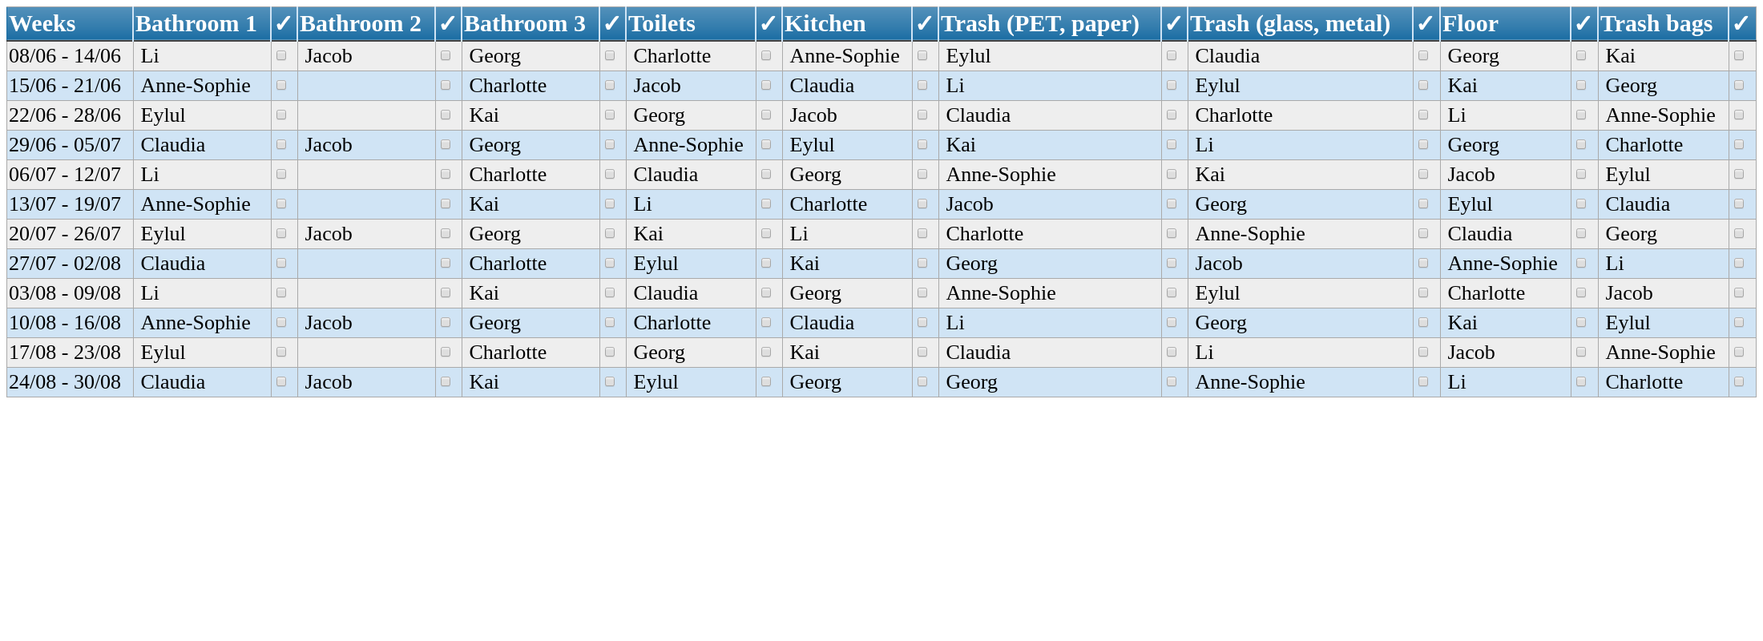
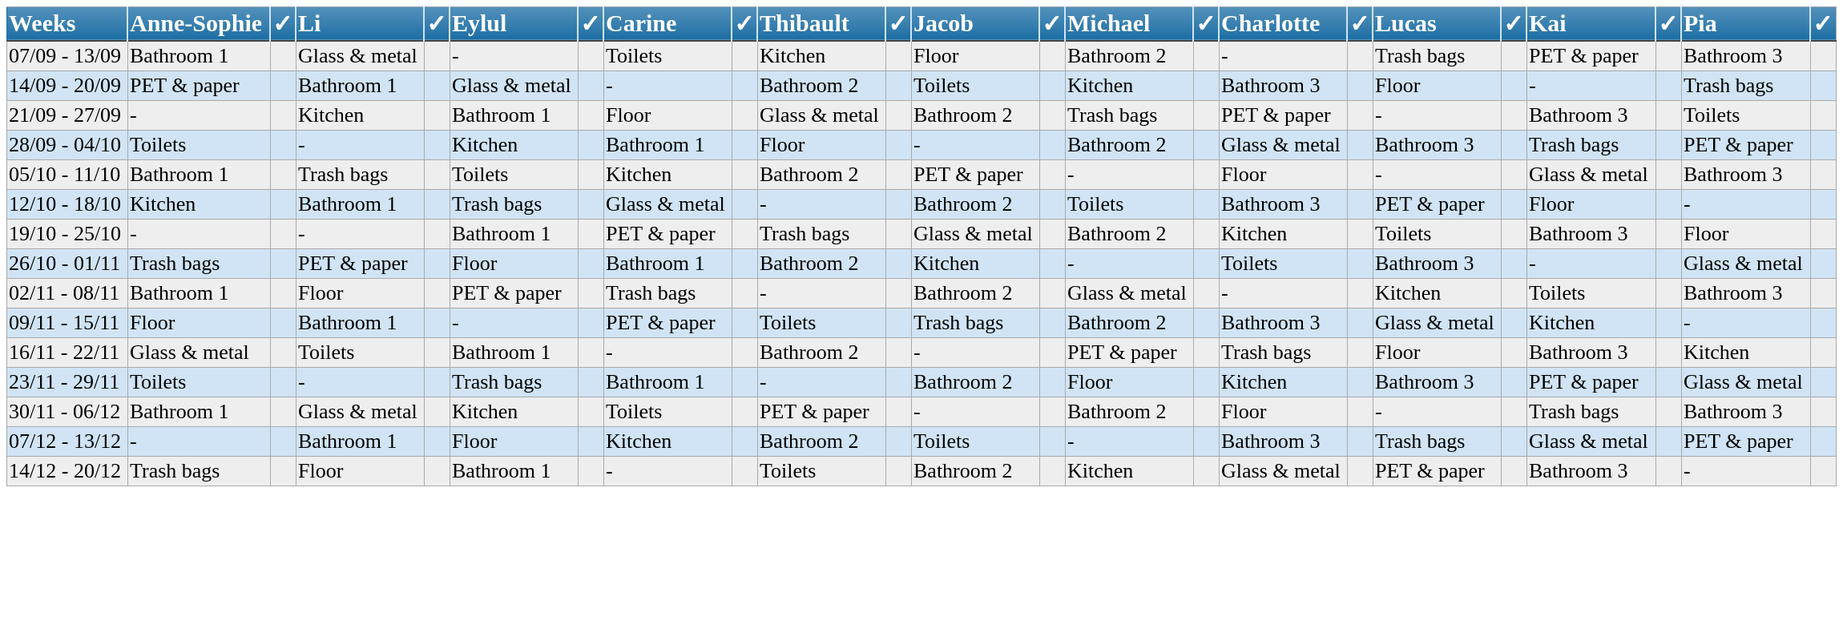
Reorganized the printing

Changed region(s): [[0.0, 0.0, 1.0, 0.75], [0.1545, 0.2188, 0.2164, 0.2812]]

diff --git a/cleaning_duty.html b/cleaning_duty.html
@@ -4,21 +4,24 @@
 <body>
 <table>
 <thead>
-<tr><th>Weeks        </th><th>Bathroom 1       </th><th>✓                                                   </th><th>Bathroom 2  </th><th>✓                                                   </th><th>Bathroom 3     </th><th>✓                                                   </th><th>Toilets          </th><th>✓                                                   </th><th>Kitchen          </th><th>✓                                                   </th><th>Trash (PET, paper)  </th><th>✓                                                   </th><th>Trash (glass, metal)  </th><th>✓                                                   </th><th>Floor            </th><th>✓                                                   </th><th>Trash bags       </th><th>✓                                                   </th></tr>
+<tr><th>Weeks        </th><th>Anne-Sophie  </th><th>✓  </th><th>Li           </th><th>✓  </th><th>Eylul        </th><th>✓  </th><th>Carine       </th><th>✓  </th><th>Thibault     </th><th>✓  </th><th>Jacob        </th><th>✓  </th><th>Michael      </th><th>✓  </th><th>Charlotte    </th><th>✓  </th><th>Lucas        </th><th>✓  </th><th>Kai          </th><th>✓  </th><th>Pia          </th><th>✓  </th></tr>
 </thead>
 <tbody>
-<tr><td>08/06 - 14/06</td><td>&nbsp;Li         </td><td><input type="checkbox" style="pointer-events: none"></td><td>&nbsp;Jacob </td><td><input type="checkbox" style="pointer-events: none"></td><td>&nbsp;Georg    </td><td><input type="checkbox" style="pointer-events: none"></td><td>&nbsp;Charlotte  </td><td><input type="checkbox" style="pointer-events: none"></td><td>&nbsp;Anne-Sophie</td><td><input type="checkbox" style="pointer-events: none"></td><td>&nbsp;Eylul         </td><td><input type="checkbox" style="pointer-events: none"></td><td>&nbsp;Claudia         </td><td><input type="checkbox" style="pointer-events: none"></td><td>&nbsp;Georg      </td><td><input type="checkbox" style="pointer-events: none"></td><td>&nbsp;Kai        </td><td><input type="checkbox" style="pointer-events: none"></td></tr>
-<tr><td>15/06 - 21/06</td><td>&nbsp;Anne-Sophie</td><td><input type="checkbox" style="pointer-events: none"></td><td>&nbsp;      </td><td><input type="checkbox" style="pointer-events: none"></td><td>&nbsp;Charlotte</td><td><input type="checkbox" style="pointer-events: none"></td><td>&nbsp;Jacob      </td><td><input type="checkbox" style="pointer-events: none"></td><td>&nbsp;Claudia    </td><td><input type="checkbox" style="pointer-events: none"></td><td>&nbsp;Li            </td><td><input type="checkbox" style="pointer-events: none"></td><td>&nbsp;Eylul           </td><td><input type="checkbox" style="pointer-events: none"></td><td>&nbsp;Kai        </td><td><input type="checkbox" style="pointer-events: none"></td><td>&nbsp;Georg      </td><td><input type="checkbox" style="pointer-events: none"></td></tr>
-<tr><td>22/06 - 28/06</td><td>&nbsp;Eylul      </td><td><input type="checkbox" style="pointer-events: none"></td><td>&nbsp;      </td><td><input type="checkbox" style="pointer-events: none"></td><td>&nbsp;Kai      </td><td><input type="checkbox" style="pointer-events: none"></td><td>&nbsp;Georg      </td><td><input type="checkbox" style="pointer-events: none"></td><td>&nbsp;Jacob      </td><td><input type="checkbox" style="pointer-events: none"></td><td>&nbsp;Claudia       </td><td><input type="checkbox" style="pointer-events: none"></td><td>&nbsp;Charlotte       </td><td><input type="checkbox" style="pointer-events: none"></td><td>&nbsp;Li         </td><td><input type="checkbox" style="pointer-events: none"></td><td>&nbsp;Anne-Sophie</td><td><input type="checkbox" style="pointer-events: none"></td></tr>
-<tr><td>29/06 - 05/07</td><td>&nbsp;Claudia    </td><td><input type="checkbox" style="pointer-events: none"></td><td>&nbsp;Jacob </td><td><input type="checkbox" style="pointer-events: none"></td><td>&nbsp;Georg    </td><td><input type="checkbox" style="pointer-events: none"></td><td>&nbsp;Anne-Sophie</td><td><input type="checkbox" style="pointer-events: none"></td><td>&nbsp;Eylul      </td><td><input type="checkbox" style="pointer-events: none"></td><td>&nbsp;Kai           </td><td><input type="checkbox" style="pointer-events: none"></td><td>&nbsp;Li              </td><td><input type="checkbox" style="pointer-events: none"></td><td>&nbsp;Georg      </td><td><input type="checkbox" style="pointer-events: none"></td><td>&nbsp;Charlotte  </td><td><input type="checkbox" style="pointer-events: none"></td></tr>
-<tr><td>06/07 - 12/07</td><td>&nbsp;Li         </td><td><input type="checkbox" style="pointer-events: none"></td><td>&nbsp;      </td><td><input type="checkbox" style="pointer-events: none"></td><td>&nbsp;Charlotte</td><td><input type="checkbox" style="pointer-events: none"></td><td>&nbsp;Claudia    </td><td><input type="checkbox" style="pointer-events: none"></td><td>&nbsp;Georg      </td><td><input type="checkbox" style="pointer-events: none"></td><td>&nbsp;Anne-Sophie   </td><td><input type="checkbox" style="pointer-events: none"></td><td>&nbsp;Kai             </td><td><input type="checkbox" style="pointer-events: none"></td><td>&nbsp;Jacob      </td><td><input type="checkbox" style="pointer-events: none"></td><td>&nbsp;Eylul      </td><td><input type="checkbox" style="pointer-events: none"></td></tr>
-<tr><td>13/07 - 19/07</td><td>&nbsp;Anne-Sophie</td><td><input type="checkbox" style="pointer-events: none"></td><td>&nbsp;      </td><td><input type="checkbox" style="pointer-events: none"></td><td>&nbsp;Kai      </td><td><input type="checkbox" style="pointer-events: none"></td><td>&nbsp;Li         </td><td><input type="checkbox" style="pointer-events: none"></td><td>&nbsp;Charlotte  </td><td><input type="checkbox" style="pointer-events: none"></td><td>&nbsp;Jacob         </td><td><input type="checkbox" style="pointer-events: none"></td><td>&nbsp;Georg           </td><td><input type="checkbox" style="pointer-events: none"></td><td>&nbsp;Eylul      </td><td><input type="checkbox" style="pointer-events: none"></td><td>&nbsp;Claudia    </td><td><input type="checkbox" style="pointer-events: none"></td></tr>
-<tr><td>20/07 - 26/07</td><td>&nbsp;Eylul      </td><td><input type="checkbox" style="pointer-events: none"></td><td>&nbsp;Jacob </td><td><input type="checkbox" style="pointer-events: none"></td><td>&nbsp;Georg    </td><td><input type="checkbox" style="pointer-events: none"></td><td>&nbsp;Kai        </td><td><input type="checkbox" style="pointer-events: none"></td><td>&nbsp;Li         </td><td><input type="checkbox" style="pointer-events: none"></td><td>&nbsp;Charlotte     </td><td><input type="checkbox" style="pointer-events: none"></td><td>&nbsp;Anne-Sophie     </td><td><input type="checkbox" style="pointer-events: none"></td><td>&nbsp;Claudia    </td><td><input type="checkbox" style="pointer-events: none"></td><td>&nbsp;Georg      </td><td><input type="checkbox" style="pointer-events: none"></td></tr>
-<tr><td>27/07 - 02/08</td><td>&nbsp;Claudia    </td><td><input type="checkbox" style="pointer-events: none"></td><td>&nbsp;      </td><td><input type="checkbox" style="pointer-events: none"></td><td>&nbsp;Charlotte</td><td><input type="checkbox" style="pointer-events: none"></td><td>&nbsp;Eylul      </td><td><input type="checkbox" style="pointer-events: none"></td><td>&nbsp;Kai        </td><td><input type="checkbox" style="pointer-events: none"></td><td>&nbsp;Georg         </td><td><input type="checkbox" style="pointer-events: none"></td><td>&nbsp;Jacob           </td><td><input type="checkbox" style="pointer-events: none"></td><td>&nbsp;Anne-Sophie</td><td><input type="checkbox" style="pointer-events: none"></td><td>&nbsp;Li         </td><td><input type="checkbox" style="pointer-events: none"></td></tr>
-<tr><td>03/08 - 09/08</td><td>&nbsp;Li         </td><td><input type="checkbox" style="pointer-events: none"></td><td>&nbsp;      </td><td><input type="checkbox" style="pointer-events: none"></td><td>&nbsp;Kai      </td><td><input type="checkbox" style="pointer-events: none"></td><td>&nbsp;Claudia    </td><td><input type="checkbox" style="pointer-events: none"></td><td>&nbsp;Georg      </td><td><input type="checkbox" style="pointer-events: none"></td><td>&nbsp;Anne-Sophie   </td><td><input type="checkbox" style="pointer-events: none"></td><td>&nbsp;Eylul           </td><td><input type="checkbox" style="pointer-events: none"></td><td>&nbsp;Charlotte  </td><td><input type="checkbox" style="pointer-events: none"></td><td>&nbsp;Jacob      </td><td><input type="checkbox" style="pointer-events: none"></td></tr>
-<tr><td>10/08 - 16/08</td><td>&nbsp;Anne-Sophie</td><td><input type="checkbox" style="pointer-events: none"></td><td>&nbsp;Jacob </td><td><input type="checkbox" style="pointer-events: none"></td><td>&nbsp;Georg    </td><td><input type="checkbox" style="pointer-events: none"></td><td>&nbsp;Charlotte  </td><td><input type="checkbox" style="pointer-events: none"></td><td>&nbsp;Claudia    </td><td><input type="checkbox" style="pointer-events: none"></td><td>&nbsp;Li            </td><td><input type="checkbox" style="pointer-events: none"></td><td>&nbsp;Georg           </td><td><input type="checkbox" style="pointer-events: none"></td><td>&nbsp;Kai        </td><td><input type="checkbox" style="pointer-events: none"></td><td>&nbsp;Eylul      </td><td><input type="checkbox" style="pointer-events: none"></td></tr>
-<tr><td>17/08 - 23/08</td><td>&nbsp;Eylul      </td><td><input type="checkbox" style="pointer-events: none"></td><td>&nbsp;      </td><td><input type="checkbox" style="pointer-events: none"></td><td>&nbsp;Charlotte</td><td><input type="checkbox" style="pointer-events: none"></td><td>&nbsp;Georg      </td><td><input type="checkbox" style="pointer-events: none"></td><td>&nbsp;Kai        </td><td><input type="checkbox" style="pointer-events: none"></td><td>&nbsp;Claudia       </td><td><input type="checkbox" style="pointer-events: none"></td><td>&nbsp;Li              </td><td><input type="checkbox" style="pointer-events: none"></td><td>&nbsp;Jacob      </td><td><input type="checkbox" style="pointer-events: none"></td><td>&nbsp;Anne-Sophie</td><td><input type="checkbox" style="pointer-events: none"></td></tr>
-<tr><td>24/08 - 30/08</td><td>&nbsp;Claudia    </td><td><input type="checkbox" style="pointer-events: none"></td><td>&nbsp;Jacob </td><td><input type="checkbox" style="pointer-events: none"></td><td>&nbsp;Kai      </td><td><input type="checkbox" style="pointer-events: none"></td><td>&nbsp;Eylul      </td><td><input type="checkbox" style="pointer-events: none"></td><td>&nbsp;Georg      </td><td><input type="checkbox" style="pointer-events: none"></td><td>&nbsp;Georg         </td><td><input type="checkbox" style="pointer-events: none"></td><td>&nbsp;Anne-Sophie     </td><td><input type="checkbox" style="pointer-events: none"></td><td>&nbsp;Li         </td><td><input type="checkbox" style="pointer-events: none"></td><td>&nbsp;Charlotte  </td><td><input type="checkbox" style="pointer-events: none"></td></tr>
+<tr><td>07/09 - 13/09</td><td>Bathroom 1   </td><td>   </td><td>Glass &amp; metal</td><td>   </td><td>-            </td><td>   </td><td>Toilets      </td><td>   </td><td>Kitchen      </td><td>   </td><td>Floor        </td><td>   </td><td>Bathroom 2   </td><td>   </td><td>-            </td><td>   </td><td>Trash bags   </td><td>   </td><td>PET &amp; paper  </td><td>   </td><td>Bathroom 3   </td><td>   </td></tr>
+<tr><td>14/09 - 20/09</td><td>PET &amp; paper  </td><td>   </td><td>Bathroom 1   </td><td>   </td><td>Glass &amp; metal</td><td>   </td><td>-            </td><td>   </td><td>Bathroom 2   </td><td>   </td><td>Toilets      </td><td>   </td><td>Kitchen      </td><td>   </td><td>Bathroom 3   </td><td>   </td><td>Floor        </td><td>   </td><td>-            </td><td>   </td><td>Trash bags   </td><td>   </td></tr>
+<tr><td>21/09 - 27/09</td><td>-            </td><td>   </td><td>Kitchen      </td><td>   </td><td>Bathroom 1   </td><td>   </td><td>Floor        </td><td>   </td><td>Glass &amp; metal</td><td>   </td><td>Bathroom 2   </td><td>   </td><td>Trash bags   </td><td>   </td><td>PET &amp; paper  </td><td>   </td><td>-            </td><td>   </td><td>Bathroom 3   </td><td>   </td><td>Toilets      </td><td>   </td></tr>
+<tr><td>28/09 - 04/10</td><td>Toilets      </td><td>   </td><td>-            </td><td>   </td><td>Kitchen      </td><td>   </td><td>Bathroom 1   </td><td>   </td><td>Floor        </td><td>   </td><td>-            </td><td>   </td><td>Bathroom 2   </td><td>   </td><td>Glass &amp; metal</td><td>   </td><td>Bathroom 3   </td><td>   </td><td>Trash bags   </td><td>   </td><td>PET &amp; paper  </td><td>   </td></tr>
+<tr><td>05/10 - 11/10</td><td>Bathroom 1   </td><td>   </td><td>Trash bags   </td><td>   </td><td>Toilets      </td><td>   </td><td>Kitchen      </td><td>   </td><td>Bathroom 2   </td><td>   </td><td>PET &amp; paper  </td><td>   </td><td>-            </td><td>   </td><td>Floor        </td><td>   </td><td>-            </td><td>   </td><td>Glass &amp; metal</td><td>   </td><td>Bathroom 3   </td><td>   </td></tr>
+<tr><td>12/10 - 18/10</td><td>Kitchen      </td><td>   </td><td>Bathroom 1   </td><td>   </td><td>Trash bags   </td><td>   </td><td>Glass &amp; metal</td><td>   </td><td>-            </td><td>   </td><td>Bathroom 2   </td><td>   </td><td>Toilets      </td><td>   </td><td>Bathroom 3   </td><td>   </td><td>PET &amp; paper  </td><td>   </td><td>Floor        </td><td>   </td><td>-            </td><td>   </td></tr>
+<tr><td>19/10 - 25/10</td><td>-            </td><td>   </td><td>-            </td><td>   </td><td>Bathroom 1   </td><td>   </td><td>PET &amp; paper  </td><td>   </td><td>Trash bags   </td><td>   </td><td>Glass &amp; metal</td><td>   </td><td>Bathroom 2   </td><td>   </td><td>Kitchen      </td><td>   </td><td>Toilets      </td><td>   </td><td>Bathroom 3   </td><td>   </td><td>Floor        </td><td>   </td></tr>
+<tr><td>26/10 - 01/11</td><td>Trash bags   </td><td>   </td><td>PET &amp; paper  </td><td>   </td><td>Floor        </td><td>   </td><td>Bathroom 1   </td><td>   </td><td>Bathroom 2   </td><td>   </td><td>Kitchen      </td><td>   </td><td>-            </td><td>   </td><td>Toilets      </td><td>   </td><td>Bathroom 3   </td><td>   </td><td>-            </td><td>   </td><td>Glass &amp; metal</td><td>   </td></tr>
+<tr><td>02/11 - 08/11</td><td>Bathroom 1   </td><td>   </td><td>Floor        </td><td>   </td><td>PET &amp; paper  </td><td>   </td><td>Trash bags   </td><td>   </td><td>-            </td><td>   </td><td>Bathroom 2   </td><td>   </td><td>Glass &amp; metal</td><td>   </td><td>-            </td><td>   </td><td>Kitchen      </td><td>   </td><td>Toilets      </td><td>   </td><td>Bathroom 3   </td><td>   </td></tr>
+<tr><td>09/11 - 15/11</td><td>Floor        </td><td>   </td><td>Bathroom 1   </td><td>   </td><td>-            </td><td>   </td><td>PET &amp; paper  </td><td>   </td><td>Toilets      </td><td>   </td><td>Trash bags   </td><td>   </td><td>Bathroom 2   </td><td>   </td><td>Bathroom 3   </td><td>   </td><td>Glass &amp; metal</td><td>   </td><td>Kitchen      </td><td>   </td><td>-            </td><td>   </td></tr>
+<tr><td>16/11 - 22/11</td><td>Glass &amp; metal</td><td>   </td><td>Toilets      </td><td>   </td><td>Bathroom 1   </td><td>   </td><td>-            </td><td>   </td><td>Bathroom 2   </td><td>   </td><td>-            </td><td>   </td><td>PET &amp; paper  </td><td>   </td><td>Trash bags   </td><td>   </td><td>Floor        </td><td>   </td><td>Bathroom 3   </td><td>   </td><td>Kitchen      </td><td>   </td></tr>
+<tr><td>23/11 - 29/11</td><td>Toilets      </td><td>   </td><td>-            </td><td>   </td><td>Trash bags   </td><td>   </td><td>Bathroom 1   </td><td>   </td><td>-            </td><td>   </td><td>Bathroom 2   </td><td>   </td><td>Floor        </td><td>   </td><td>Kitchen      </td><td>   </td><td>Bathroom 3   </td><td>   </td><td>PET &amp; paper  </td><td>   </td><td>Glass &amp; metal</td><td>   </td></tr>
+<tr><td>30/11 - 06/12</td><td>Bathroom 1   </td><td>   </td><td>Glass &amp; metal</td><td>   </td><td>Kitchen      </td><td>   </td><td>Toilets      </td><td>   </td><td>PET &amp; paper  </td><td>   </td><td>-            </td><td>   </td><td>Bathroom 2   </td><td>   </td><td>Floor        </td><td>   </td><td>-            </td><td>   </td><td>Trash bags   </td><td>   </td><td>Bathroom 3   </td><td>   </td></tr>
+<tr><td>07/12 - 13/12</td><td>-            </td><td>   </td><td>Bathroom 1   </td><td>   </td><td>Floor        </td><td>   </td><td>Kitchen      </td><td>   </td><td>Bathroom 2   </td><td>   </td><td>Toilets      </td><td>   </td><td>-            </td><td>   </td><td>Bathroom 3   </td><td>   </td><td>Trash bags   </td><td>   </td><td>Glass &amp; metal</td><td>   </td><td>PET &amp; paper  </td><td>   </td></tr>
+<tr><td>14/12 - 20/12</td><td>Trash bags   </td><td>   </td><td>Floor        </td><td>   </td><td>Bathroom 1   </td><td>   </td><td>-            </td><td>   </td><td>Toilets      </td><td>   </td><td>Bathroom 2   </td><td>   </td><td>Kitchen      </td><td>   </td><td>Glass &amp; metal</td><td>   </td><td>PET &amp; paper  </td><td>   </td><td>Bathroom 3   </td><td>   </td><td>-            </td><td>   </td></tr>
 </tbody>
 </table>
 <div id="leaderboard"></div>

diff --git a/html/table.html b/html/table.html
@@ -1,19 +1,22 @@
 <table>
 <thead>
-<tr><th>Weeks        </th><th>Bathroom 1       </th><th>✓                                                   </th><th>Bathroom 2  </th><th>✓                                                   </th><th>Bathroom 3     </th><th>✓                                                   </th><th>Toilets          </th><th>✓                                                   </th><th>Kitchen          </th><th>✓                                                   </th><th>Trash (PET, paper)  </th><th>✓                                                   </th><th>Trash (glass, metal)  </th><th>✓                                                   </th><th>Floor            </th><th>✓                                                   </th><th>Trash bags       </th><th>✓                                                   </th></tr>
+<tr><th>Weeks        </th><th>Anne-Sophie  </th><th>✓  </th><th>Li           </th><th>✓  </th><th>Eylul        </th><th>✓  </th><th>Carine       </th><th>✓  </th><th>Thibault     </th><th>✓  </th><th>Jacob        </th><th>✓  </th><th>Michael      </th><th>✓  </th><th>Charlotte    </th><th>✓  </th><th>Lucas        </th><th>✓  </th><th>Kai          </th><th>✓  </th><th>Pia          </th><th>✓  </th></tr>
 </thead>
 <tbody>
-<tr><td>08/06 - 14/06</td><td>&nbsp;Li         </td><td><input type="checkbox" style="pointer-events: none"></td><td>&nbsp;Jacob </td><td><input type="checkbox" style="pointer-events: none"></td><td>&nbsp;Georg    </td><td><input type="checkbox" style="pointer-events: none"></td><td>&nbsp;Charlotte  </td><td><input type="checkbox" style="pointer-events: none"></td><td>&nbsp;Anne-Sophie</td><td><input type="checkbox" style="pointer-events: none"></td><td>&nbsp;Eylul         </td><td><input type="checkbox" style="pointer-events: none"></td><td>&nbsp;Claudia         </td><td><input type="checkbox" style="pointer-events: none"></td><td>&nbsp;Georg      </td><td><input type="checkbox" style="pointer-events: none"></td><td>&nbsp;Kai        </td><td><input type="checkbox" style="pointer-events: none"></td></tr>
-<tr><td>15/06 - 21/06</td><td>&nbsp;Anne-Sophie</td><td><input type="checkbox" style="pointer-events: none"></td><td>&nbsp;      </td><td><input type="checkbox" style="pointer-events: none"></td><td>&nbsp;Charlotte</td><td><input type="checkbox" style="pointer-events: none"></td><td>&nbsp;Jacob      </td><td><input type="checkbox" style="pointer-events: none"></td><td>&nbsp;Claudia    </td><td><input type="checkbox" style="pointer-events: none"></td><td>&nbsp;Li            </td><td><input type="checkbox" style="pointer-events: none"></td><td>&nbsp;Eylul           </td><td><input type="checkbox" style="pointer-events: none"></td><td>&nbsp;Kai        </td><td><input type="checkbox" style="pointer-events: none"></td><td>&nbsp;Georg      </td><td><input type="checkbox" style="pointer-events: none"></td></tr>
-<tr><td>22/06 - 28/06</td><td>&nbsp;Eylul      </td><td><input type="checkbox" style="pointer-events: none"></td><td>&nbsp;      </td><td><input type="checkbox" style="pointer-events: none"></td><td>&nbsp;Kai      </td><td><input type="checkbox" style="pointer-events: none"></td><td>&nbsp;Georg      </td><td><input type="checkbox" style="pointer-events: none"></td><td>&nbsp;Jacob      </td><td><input type="checkbox" style="pointer-events: none"></td><td>&nbsp;Claudia       </td><td><input type="checkbox" style="pointer-events: none"></td><td>&nbsp;Charlotte       </td><td><input type="checkbox" style="pointer-events: none"></td><td>&nbsp;Li         </td><td><input type="checkbox" style="pointer-events: none"></td><td>&nbsp;Anne-Sophie</td><td><input type="checkbox" style="pointer-events: none"></td></tr>
-<tr><td>29/06 - 05/07</td><td>&nbsp;Claudia    </td><td><input type="checkbox" style="pointer-events: none"></td><td>&nbsp;Jacob </td><td><input type="checkbox" style="pointer-events: none"></td><td>&nbsp;Georg    </td><td><input type="checkbox" style="pointer-events: none"></td><td>&nbsp;Anne-Sophie</td><td><input type="checkbox" style="pointer-events: none"></td><td>&nbsp;Eylul      </td><td><input type="checkbox" style="pointer-events: none"></td><td>&nbsp;Kai           </td><td><input type="checkbox" style="pointer-events: none"></td><td>&nbsp;Li              </td><td><input type="checkbox" style="pointer-events: none"></td><td>&nbsp;Georg      </td><td><input type="checkbox" style="pointer-events: none"></td><td>&nbsp;Charlotte  </td><td><input type="checkbox" style="pointer-events: none"></td></tr>
-<tr><td>06/07 - 12/07</td><td>&nbsp;Li         </td><td><input type="checkbox" style="pointer-events: none"></td><td>&nbsp;      </td><td><input type="checkbox" style="pointer-events: none"></td><td>&nbsp;Charlotte</td><td><input type="checkbox" style="pointer-events: none"></td><td>&nbsp;Claudia    </td><td><input type="checkbox" style="pointer-events: none"></td><td>&nbsp;Georg      </td><td><input type="checkbox" style="pointer-events: none"></td><td>&nbsp;Anne-Sophie   </td><td><input type="checkbox" style="pointer-events: none"></td><td>&nbsp;Kai             </td><td><input type="checkbox" style="pointer-events: none"></td><td>&nbsp;Jacob      </td><td><input type="checkbox" style="pointer-events: none"></td><td>&nbsp;Eylul      </td><td><input type="checkbox" style="pointer-events: none"></td></tr>
-<tr><td>13/07 - 19/07</td><td>&nbsp;Anne-Sophie</td><td><input type="checkbox" style="pointer-events: none"></td><td>&nbsp;      </td><td><input type="checkbox" style="pointer-events: none"></td><td>&nbsp;Kai      </td><td><input type="checkbox" style="pointer-events: none"></td><td>&nbsp;Li         </td><td><input type="checkbox" style="pointer-events: none"></td><td>&nbsp;Charlotte  </td><td><input type="checkbox" style="pointer-events: none"></td><td>&nbsp;Jacob         </td><td><input type="checkbox" style="pointer-events: none"></td><td>&nbsp;Georg           </td><td><input type="checkbox" style="pointer-events: none"></td><td>&nbsp;Eylul      </td><td><input type="checkbox" style="pointer-events: none"></td><td>&nbsp;Claudia    </td><td><input type="checkbox" style="pointer-events: none"></td></tr>
-<tr><td>20/07 - 26/07</td><td>&nbsp;Eylul      </td><td><input type="checkbox" style="pointer-events: none"></td><td>&nbsp;Jacob </td><td><input type="checkbox" style="pointer-events: none"></td><td>&nbsp;Georg    </td><td><input type="checkbox" style="pointer-events: none"></td><td>&nbsp;Kai        </td><td><input type="checkbox" style="pointer-events: none"></td><td>&nbsp;Li         </td><td><input type="checkbox" style="pointer-events: none"></td><td>&nbsp;Charlotte     </td><td><input type="checkbox" style="pointer-events: none"></td><td>&nbsp;Anne-Sophie     </td><td><input type="checkbox" style="pointer-events: none"></td><td>&nbsp;Claudia    </td><td><input type="checkbox" style="pointer-events: none"></td><td>&nbsp;Georg      </td><td><input type="checkbox" style="pointer-events: none"></td></tr>
-<tr><td>27/07 - 02/08</td><td>&nbsp;Claudia    </td><td><input type="checkbox" style="pointer-events: none"></td><td>&nbsp;      </td><td><input type="checkbox" style="pointer-events: none"></td><td>&nbsp;Charlotte</td><td><input type="checkbox" style="pointer-events: none"></td><td>&nbsp;Eylul      </td><td><input type="checkbox" style="pointer-events: none"></td><td>&nbsp;Kai        </td><td><input type="checkbox" style="pointer-events: none"></td><td>&nbsp;Georg         </td><td><input type="checkbox" style="pointer-events: none"></td><td>&nbsp;Jacob           </td><td><input type="checkbox" style="pointer-events: none"></td><td>&nbsp;Anne-Sophie</td><td><input type="checkbox" style="pointer-events: none"></td><td>&nbsp;Li         </td><td><input type="checkbox" style="pointer-events: none"></td></tr>
-<tr><td>03/08 - 09/08</td><td>&nbsp;Li         </td><td><input type="checkbox" style="pointer-events: none"></td><td>&nbsp;      </td><td><input type="checkbox" style="pointer-events: none"></td><td>&nbsp;Kai      </td><td><input type="checkbox" style="pointer-events: none"></td><td>&nbsp;Claudia    </td><td><input type="checkbox" style="pointer-events: none"></td><td>&nbsp;Georg      </td><td><input type="checkbox" style="pointer-events: none"></td><td>&nbsp;Anne-Sophie   </td><td><input type="checkbox" style="pointer-events: none"></td><td>&nbsp;Eylul           </td><td><input type="checkbox" style="pointer-events: none"></td><td>&nbsp;Charlotte  </td><td><input type="checkbox" style="pointer-events: none"></td><td>&nbsp;Jacob      </td><td><input type="checkbox" style="pointer-events: none"></td></tr>
-<tr><td>10/08 - 16/08</td><td>&nbsp;Anne-Sophie</td><td><input type="checkbox" style="pointer-events: none"></td><td>&nbsp;Jacob </td><td><input type="checkbox" style="pointer-events: none"></td><td>&nbsp;Georg    </td><td><input type="checkbox" style="pointer-events: none"></td><td>&nbsp;Charlotte  </td><td><input type="checkbox" style="pointer-events: none"></td><td>&nbsp;Claudia    </td><td><input type="checkbox" style="pointer-events: none"></td><td>&nbsp;Li            </td><td><input type="checkbox" style="pointer-events: none"></td><td>&nbsp;Georg           </td><td><input type="checkbox" style="pointer-events: none"></td><td>&nbsp;Kai        </td><td><input type="checkbox" style="pointer-events: none"></td><td>&nbsp;Eylul      </td><td><input type="checkbox" style="pointer-events: none"></td></tr>
-<tr><td>17/08 - 23/08</td><td>&nbsp;Eylul      </td><td><input type="checkbox" style="pointer-events: none"></td><td>&nbsp;      </td><td><input type="checkbox" style="pointer-events: none"></td><td>&nbsp;Charlotte</td><td><input type="checkbox" style="pointer-events: none"></td><td>&nbsp;Georg      </td><td><input type="checkbox" style="pointer-events: none"></td><td>&nbsp;Kai        </td><td><input type="checkbox" style="pointer-events: none"></td><td>&nbsp;Claudia       </td><td><input type="checkbox" style="pointer-events: none"></td><td>&nbsp;Li              </td><td><input type="checkbox" style="pointer-events: none"></td><td>&nbsp;Jacob      </td><td><input type="checkbox" style="pointer-events: none"></td><td>&nbsp;Anne-Sophie</td><td><input type="checkbox" style="pointer-events: none"></td></tr>
-<tr><td>24/08 - 30/08</td><td>&nbsp;Claudia    </td><td><input type="checkbox" style="pointer-events: none"></td><td>&nbsp;Jacob </td><td><input type="checkbox" style="pointer-events: none"></td><td>&nbsp;Kai      </td><td><input type="checkbox" style="pointer-events: none"></td><td>&nbsp;Eylul      </td><td><input type="checkbox" style="pointer-events: none"></td><td>&nbsp;Georg      </td><td><input type="checkbox" style="pointer-events: none"></td><td>&nbsp;Georg         </td><td><input type="checkbox" style="pointer-events: none"></td><td>&nbsp;Anne-Sophie     </td><td><input type="checkbox" style="pointer-events: none"></td><td>&nbsp;Li         </td><td><input type="checkbox" style="pointer-events: none"></td><td>&nbsp;Charlotte  </td><td><input type="checkbox" style="pointer-events: none"></td></tr>
+<tr><td>07/09 - 13/09</td><td>Bathroom 1   </td><td>   </td><td>Glass &amp; metal</td><td>   </td><td>-            </td><td>   </td><td>Toilets      </td><td>   </td><td>Kitchen      </td><td>   </td><td>Floor        </td><td>   </td><td>Bathroom 2   </td><td>   </td><td>-            </td><td>   </td><td>Trash bags   </td><td>   </td><td>PET &amp; paper  </td><td>   </td><td>Bathroom 3   </td><td>   </td></tr>
+<tr><td>14/09 - 20/09</td><td>PET &amp; paper  </td><td>   </td><td>Bathroom 1   </td><td>   </td><td>Glass &amp; metal</td><td>   </td><td>-            </td><td>   </td><td>Bathroom 2   </td><td>   </td><td>Toilets      </td><td>   </td><td>Kitchen      </td><td>   </td><td>Bathroom 3   </td><td>   </td><td>Floor        </td><td>   </td><td>-            </td><td>   </td><td>Trash bags   </td><td>   </td></tr>
+<tr><td>21/09 - 27/09</td><td>-            </td><td>   </td><td>Kitchen      </td><td>   </td><td>Bathroom 1   </td><td>   </td><td>Floor        </td><td>   </td><td>Glass &amp; metal</td><td>   </td><td>Bathroom 2   </td><td>   </td><td>Trash bags   </td><td>   </td><td>PET &amp; paper  </td><td>   </td><td>-            </td><td>   </td><td>Bathroom 3   </td><td>   </td><td>Toilets      </td><td>   </td></tr>
+<tr><td>28/09 - 04/10</td><td>Toilets      </td><td>   </td><td>-            </td><td>   </td><td>Kitchen      </td><td>   </td><td>Bathroom 1   </td><td>   </td><td>Floor        </td><td>   </td><td>-            </td><td>   </td><td>Bathroom 2   </td><td>   </td><td>Glass &amp; metal</td><td>   </td><td>Bathroom 3   </td><td>   </td><td>Trash bags   </td><td>   </td><td>PET &amp; paper  </td><td>   </td></tr>
+<tr><td>05/10 - 11/10</td><td>Bathroom 1   </td><td>   </td><td>Trash bags   </td><td>   </td><td>Toilets      </td><td>   </td><td>Kitchen      </td><td>   </td><td>Bathroom 2   </td><td>   </td><td>PET &amp; paper  </td><td>   </td><td>-            </td><td>   </td><td>Floor        </td><td>   </td><td>-            </td><td>   </td><td>Glass &amp; metal</td><td>   </td><td>Bathroom 3   </td><td>   </td></tr>
+<tr><td>12/10 - 18/10</td><td>Kitchen      </td><td>   </td><td>Bathroom 1   </td><td>   </td><td>Trash bags   </td><td>   </td><td>Glass &amp; metal</td><td>   </td><td>-            </td><td>   </td><td>Bathroom 2   </td><td>   </td><td>Toilets      </td><td>   </td><td>Bathroom 3   </td><td>   </td><td>PET &amp; paper  </td><td>   </td><td>Floor        </td><td>   </td><td>-            </td><td>   </td></tr>
+<tr><td>19/10 - 25/10</td><td>-            </td><td>   </td><td>-            </td><td>   </td><td>Bathroom 1   </td><td>   </td><td>PET &amp; paper  </td><td>   </td><td>Trash bags   </td><td>   </td><td>Glass &amp; metal</td><td>   </td><td>Bathroom 2   </td><td>   </td><td>Kitchen      </td><td>   </td><td>Toilets      </td><td>   </td><td>Bathroom 3   </td><td>   </td><td>Floor        </td><td>   </td></tr>
+<tr><td>26/10 - 01/11</td><td>Trash bags   </td><td>   </td><td>PET &amp; paper  </td><td>   </td><td>Floor        </td><td>   </td><td>Bathroom 1   </td><td>   </td><td>Bathroom 2   </td><td>   </td><td>Kitchen      </td><td>   </td><td>-            </td><td>   </td><td>Toilets      </td><td>   </td><td>Bathroom 3   </td><td>   </td><td>-            </td><td>   </td><td>Glass &amp; metal</td><td>   </td></tr>
+<tr><td>02/11 - 08/11</td><td>Bathroom 1   </td><td>   </td><td>Floor        </td><td>   </td><td>PET &amp; paper  </td><td>   </td><td>Trash bags   </td><td>   </td><td>-            </td><td>   </td><td>Bathroom 2   </td><td>   </td><td>Glass &amp; metal</td><td>   </td><td>-            </td><td>   </td><td>Kitchen      </td><td>   </td><td>Toilets      </td><td>   </td><td>Bathroom 3   </td><td>   </td></tr>
+<tr><td>09/11 - 15/11</td><td>Floor        </td><td>   </td><td>Bathroom 1   </td><td>   </td><td>-            </td><td>   </td><td>PET &amp; paper  </td><td>   </td><td>Toilets      </td><td>   </td><td>Trash bags   </td><td>   </td><td>Bathroom 2   </td><td>   </td><td>Bathroom 3   </td><td>   </td><td>Glass &amp; metal</td><td>   </td><td>Kitchen      </td><td>   </td><td>-            </td><td>   </td></tr>
+<tr><td>16/11 - 22/11</td><td>Glass &amp; metal</td><td>   </td><td>Toilets      </td><td>   </td><td>Bathroom 1   </td><td>   </td><td>-            </td><td>   </td><td>Bathroom 2   </td><td>   </td><td>-            </td><td>   </td><td>PET &amp; paper  </td><td>   </td><td>Trash bags   </td><td>   </td><td>Floor        </td><td>   </td><td>Bathroom 3   </td><td>   </td><td>Kitchen      </td><td>   </td></tr>
+<tr><td>23/11 - 29/11</td><td>Toilets      </td><td>   </td><td>-            </td><td>   </td><td>Trash bags   </td><td>   </td><td>Bathroom 1   </td><td>   </td><td>-            </td><td>   </td><td>Bathroom 2   </td><td>   </td><td>Floor        </td><td>   </td><td>Kitchen      </td><td>   </td><td>Bathroom 3   </td><td>   </td><td>PET &amp; paper  </td><td>   </td><td>Glass &amp; metal</td><td>   </td></tr>
+<tr><td>30/11 - 06/12</td><td>Bathroom 1   </td><td>   </td><td>Glass &amp; metal</td><td>   </td><td>Kitchen      </td><td>   </td><td>Toilets      </td><td>   </td><td>PET &amp; paper  </td><td>   </td><td>-            </td><td>   </td><td>Bathroom 2   </td><td>   </td><td>Floor        </td><td>   </td><td>-            </td><td>   </td><td>Trash bags   </td><td>   </td><td>Bathroom 3   </td><td>   </td></tr>
+<tr><td>07/12 - 13/12</td><td>-            </td><td>   </td><td>Bathroom 1   </td><td>   </td><td>Floor        </td><td>   </td><td>Kitchen      </td><td>   </td><td>Bathroom 2   </td><td>   </td><td>Toilets      </td><td>   </td><td>-            </td><td>   </td><td>Bathroom 3   </td><td>   </td><td>Trash bags   </td><td>   </td><td>Glass &amp; metal</td><td>   </td><td>PET &amp; paper  </td><td>   </td></tr>
+<tr><td>14/12 - 20/12</td><td>Trash bags   </td><td>   </td><td>Floor        </td><td>   </td><td>Bathroom 1   </td><td>   </td><td>-            </td><td>   </td><td>Toilets      </td><td>   </td><td>Bathroom 2   </td><td>   </td><td>Kitchen      </td><td>   </td><td>Glass &amp; metal</td><td>   </td><td>PET &amp; paper  </td><td>   </td><td>Bathroom 3   </td><td>   </td><td>-            </td><td>   </td></tr>
 </tbody>
 </table>

diff --git a/generate.py b/generate.py
@@ -7,11 +7,11 @@ from datetime import datetime
 from datetime import date
 from datetime import timedelta
 
-n_weeks = 12
-names = ["Anne-Sophie", "Li", "Claudia", "Jacob", "Kai", "Charlotte", "Eylul", "Georg"]
-bathrooms = [[0, 1, 2, 6], [3], [4, 5, 7]]
-tasks = ["Toilets", "Kitchen", "Trash (PET, paper)", "Trash (glass, metal)", "Floor", "Trash bags"]
-first_day = (8, 6, 2020)
+n_weeks = 15
+names = ["Anne-Sophie", "Li", "Eylul", "Carine", "Thibault", "Jacob", "Michael", "Charlotte", "Lucas", "Kai", "Pia"]
+bathrooms = [[0, 1, 2, 3], [4, 5, 6], [7, 8, 9, 10]]
+tasks = ["Toilets", "Kitchen", "PET & paper", "Glass & metal", "Floor", "Trash bags"]
+first_day = (7, 9, 2020)
 
 style = "plain"
 if len(sys.argv) >= 2:
@@ -96,13 +96,13 @@ def update(i):
         week = [-1 for _ in range(n_tasks)]
         persons = set(range(n_persons))
         for (ib, b) in enumerate(bathrooms):
-            if ib == 1 and iterations % 3 != 1:
-                week[ib] = None
-            else:
-                ind = i % len(b)
-                p = b[ind]
-                week[ib] = p
-                persons.remove(p)
+            # if ib == 1 and iterations % 3 != 1:
+             #   week[ib] = None
+            # else:
+            ind = i % len(b)
+            p = b[ind]
+            week[ib] = p
+            persons.remove(p)
         persons = list(persons)
         rd.shuffle(persons)
         c = count()
@@ -149,22 +149,39 @@ def get_name(i):
     else:
         return names[i]
 
-pretty_schedule = [[weeks[n]] + ["&nbsp;" + get_name(i) for i in week] for (n, week) in enumerate(schedule)]
-headers = ["Weeks"] + ["Bathroom " + str(i + 1) for i in range(n_bathrooms)] + tasks
+# pretty_schedule = [[weeks[n]] + ["&nbsp;" + get_name(i) for i in week] for (n, week) in enumerate(schedule)]
+# pretty_schedule = [[weeks[n]] + [get_name(i) for i in week] for (n, week) in enumerate(schedule)]
+
+task_name = ["Bathroom " + str(i + 1) for i in range(n_bathrooms)] + tasks
+tasks_per_person = []
+for week in schedule:
+    l = ["-" for _ in names]
+    for (i, n_person) in enumerate(week):
+        l[n_person] = task_name[i]
+    tasks_per_person.append(l)
+
+# print(tasks_per_person)
+
+pretty_schedule = [[weeks[n]] + [tasks_per_person[n][i] for i in range(len(names))] for n in range(len(weeks))]
+# headers = ["Weeks"] + ["Bathroom " + str(i + 1) for i in range(n_bathrooms)] + tasks
+headers = ["Weeks"] + names
+
 
 headers_plus = headers[:1]
 pretty_schedule_plus = []
 
-for i in range(n_tasks):
+# for i in range(n_tasks):
+for i in range(len(names)):
     h = headers[i + 1]
     headers_plus.append(h)
     headers_plus.append("✓")
 
 for t in pretty_schedule:
     t_plus = t[:1]
-    for i in range(n_tasks):
-        t_plus.append(t[i + 1])
-        t_plus.append('<input type="checkbox" style="pointer-events: none">')
+    for i in range(len(names)):
+        t_plus.append(" " + t[i + 1])
+        # t_plus.append('<input type="checkbox" style="pointer-events: none">')
+        t_plus.append('')
     pretty_schedule_plus.append(t_plus)
 
 print(tabulate(pretty_schedule_plus, headers=headers_plus, tablefmt=style))
